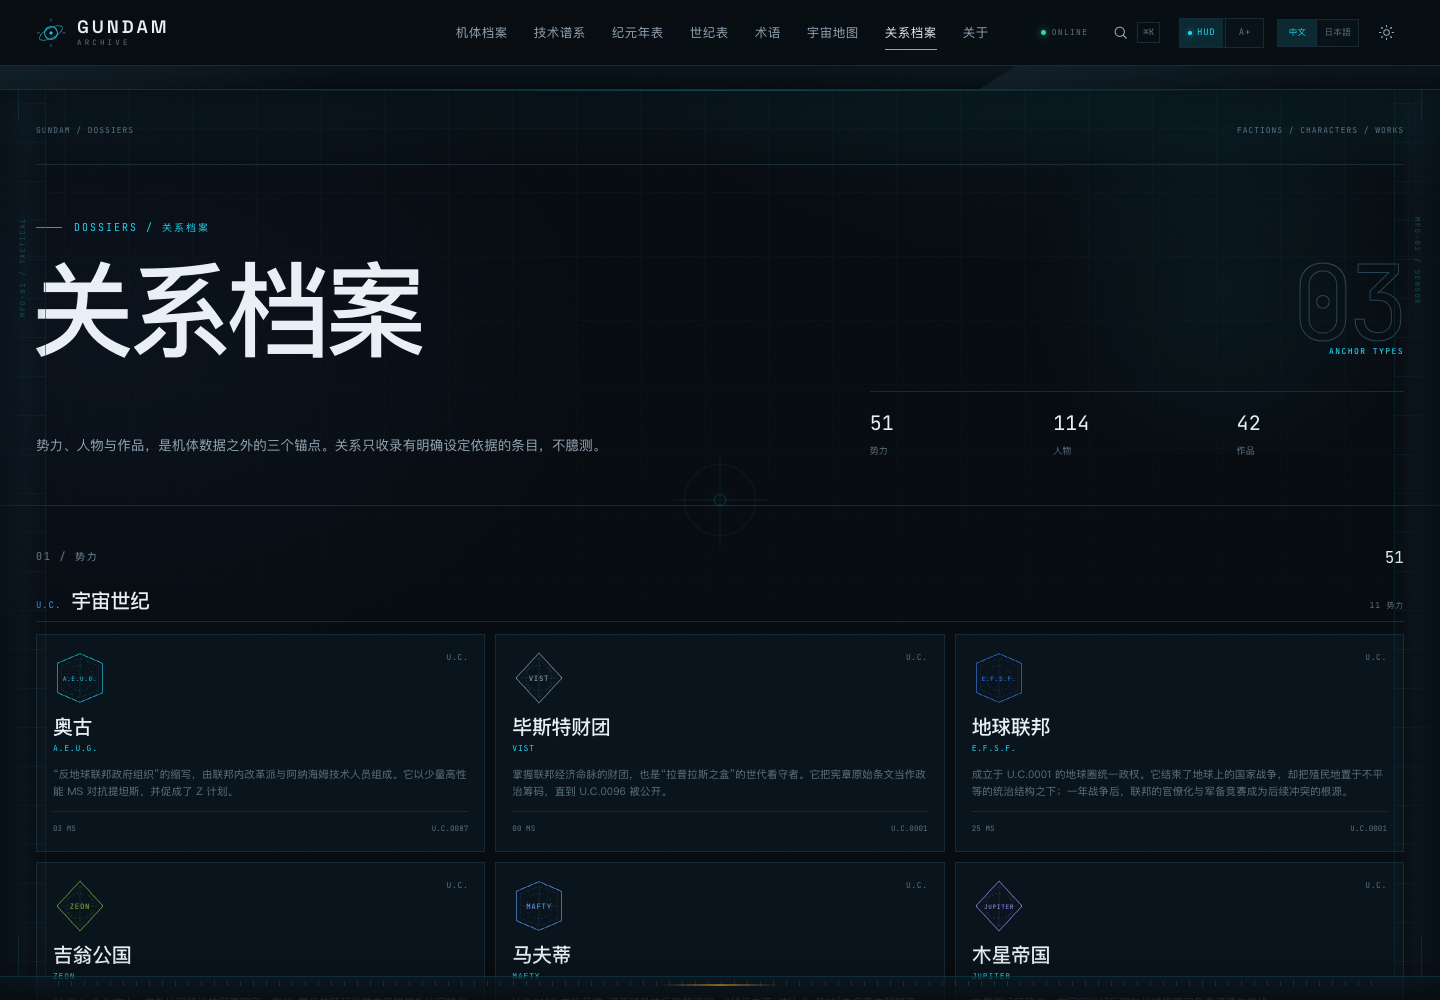
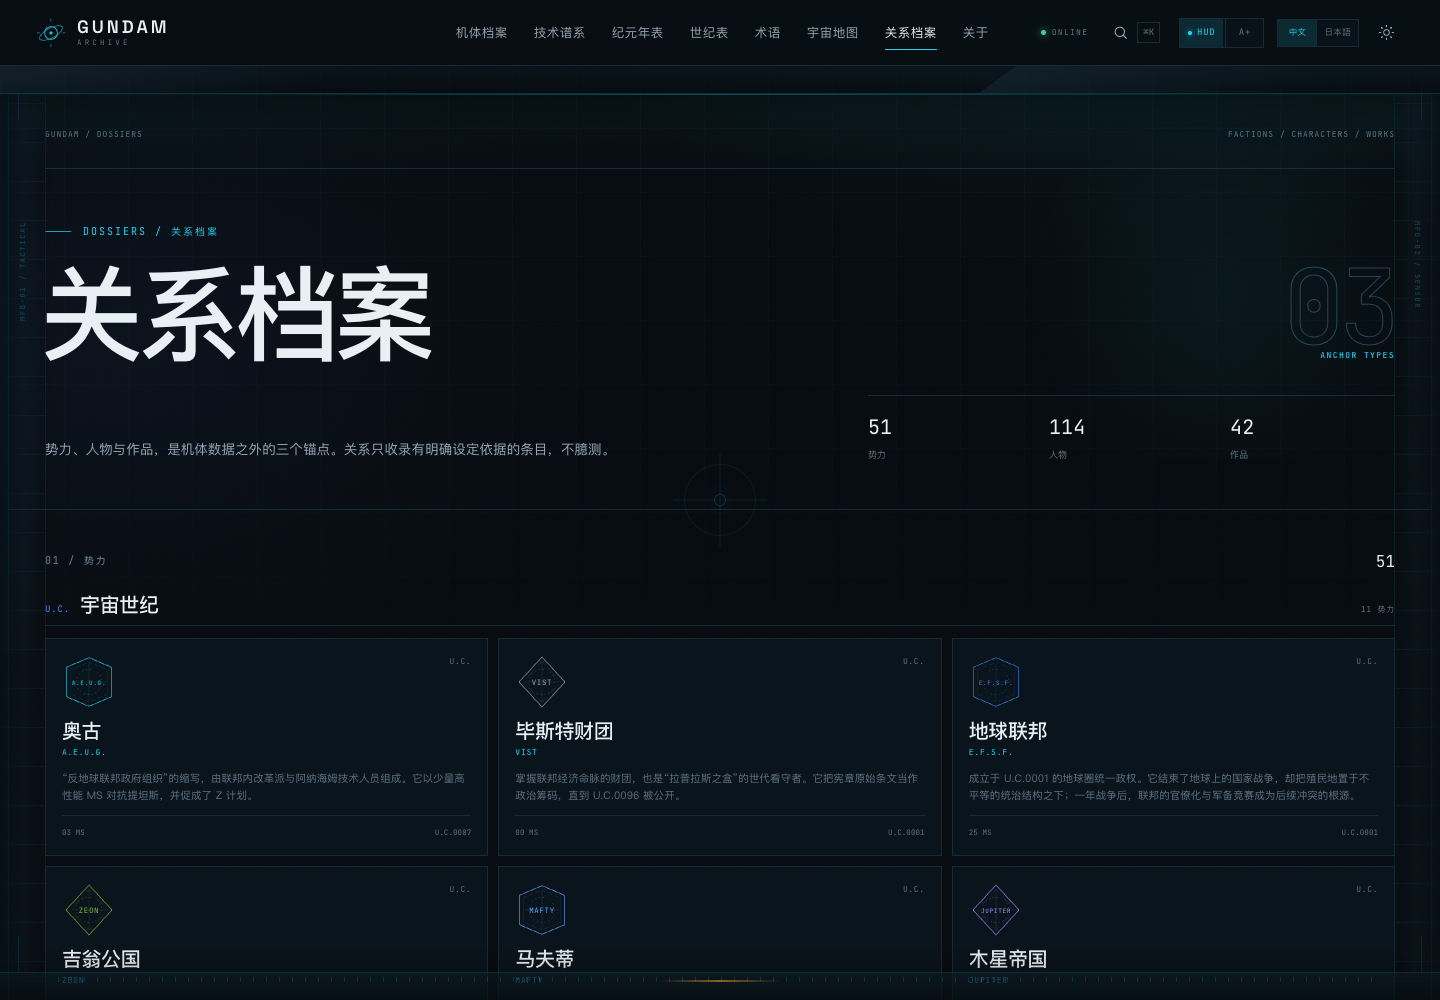
style(ui): sharpen cockpit bezel and finalize source notes

diff --git a/src/app/globals.css b/src/app/globals.css
@@ -1688,7 +1688,7 @@ body {
    They sit in the page margins and never block pointer input.
    ============================================================ */
 
-:root { --canopy-h: 24px; }
+:root { --canopy-h: 28px; }
 
 .main {
   padding-top: calc(var(--header-h) + var(--canopy-h));
@@ -1792,7 +1792,7 @@ body {
 
 .hud-rail--top { top: 96px; }
 
-:root { --console-h: 24px; }
+:root { --console-h: 28px; }
 body { padding-bottom: var(--console-h); }
 
 .cockpit-console {
@@ -1867,4 +1867,29 @@ body { padding-bottom: var(--console-h); }
 @media print {
   .cockpit-console { display: none; }
   body { padding-bottom: 0; }
+}
+
+/* The main deck reads as the central display: a thin bezel, inset
+   shadow and two corner cuts, with no effect on content width. */
+.cockpit-deck {
+  margin: 0 clamp(0px, 0.55vw, 9px);
+  border-left: 1px solid rgba(34, 211, 238, 0.1);
+  border-right: 1px solid rgba(34, 211, 238, 0.1);
+  box-shadow:
+    inset 0 0 80px rgba(0, 0, 0, 0.18),
+    inset 0 1px 0 rgba(34, 211, 238, 0.08);
+}
+
+.cockpit-deck::after {
+  content: "";
+  position: absolute;
+  left: 8%;
+  right: 8%;
+  bottom: 0;
+  height: 1px;
+  background: linear-gradient(90deg, transparent, rgba(34, 211, 238, 0.28), transparent);
+}
+
+@media (max-width: 900px) {
+  .cockpit-deck { margin: 0; border-left: 0; border-right: 0; }
 }

diff --git a/docs/DATA_SOURCES.md b/docs/DATA_SOURCES.md
@@ -53,3 +53,17 @@
 - **人物年龄**：标“约”的为作品内可推算的近似值；没有明确年龄的人物写“不详”，不做推断。
 
 如果后续发现与设定集或正片冲突，优先修正条目，并在本页记录修正原因。
+
+### 2026-11 阵营补充
+
+新增的 14 个势力只做作品级归类，不补写作品未给出的成立年份、兵力或具体编制：
+
+- **F.C.**：新丹麦、新美国（《机动武斗传G 高达》）
+- **A.C.**：桑古王国、白色獠牙（《新机动战记高达W》）
+- **A.D.**：Union、AEU、人类革新联盟、A-LAWS（《机动战士高达00》）
+- **C.E.**：蓝色宇宙、Terminal（《机动战士高达SEED》系列）
+- **R.C.**：首都军、托瓦桑加（《高达 G之复国运动》）
+- **A.S.**：高达股份有限公司（《机动战士高达 水星的魔女》）
+- **C.C.**：卢吉亚纳民兵（《∀高达》）
+
+没有已核对机体的势力在档案中显示 `00 MS`；不用其他势力的机体填充。
